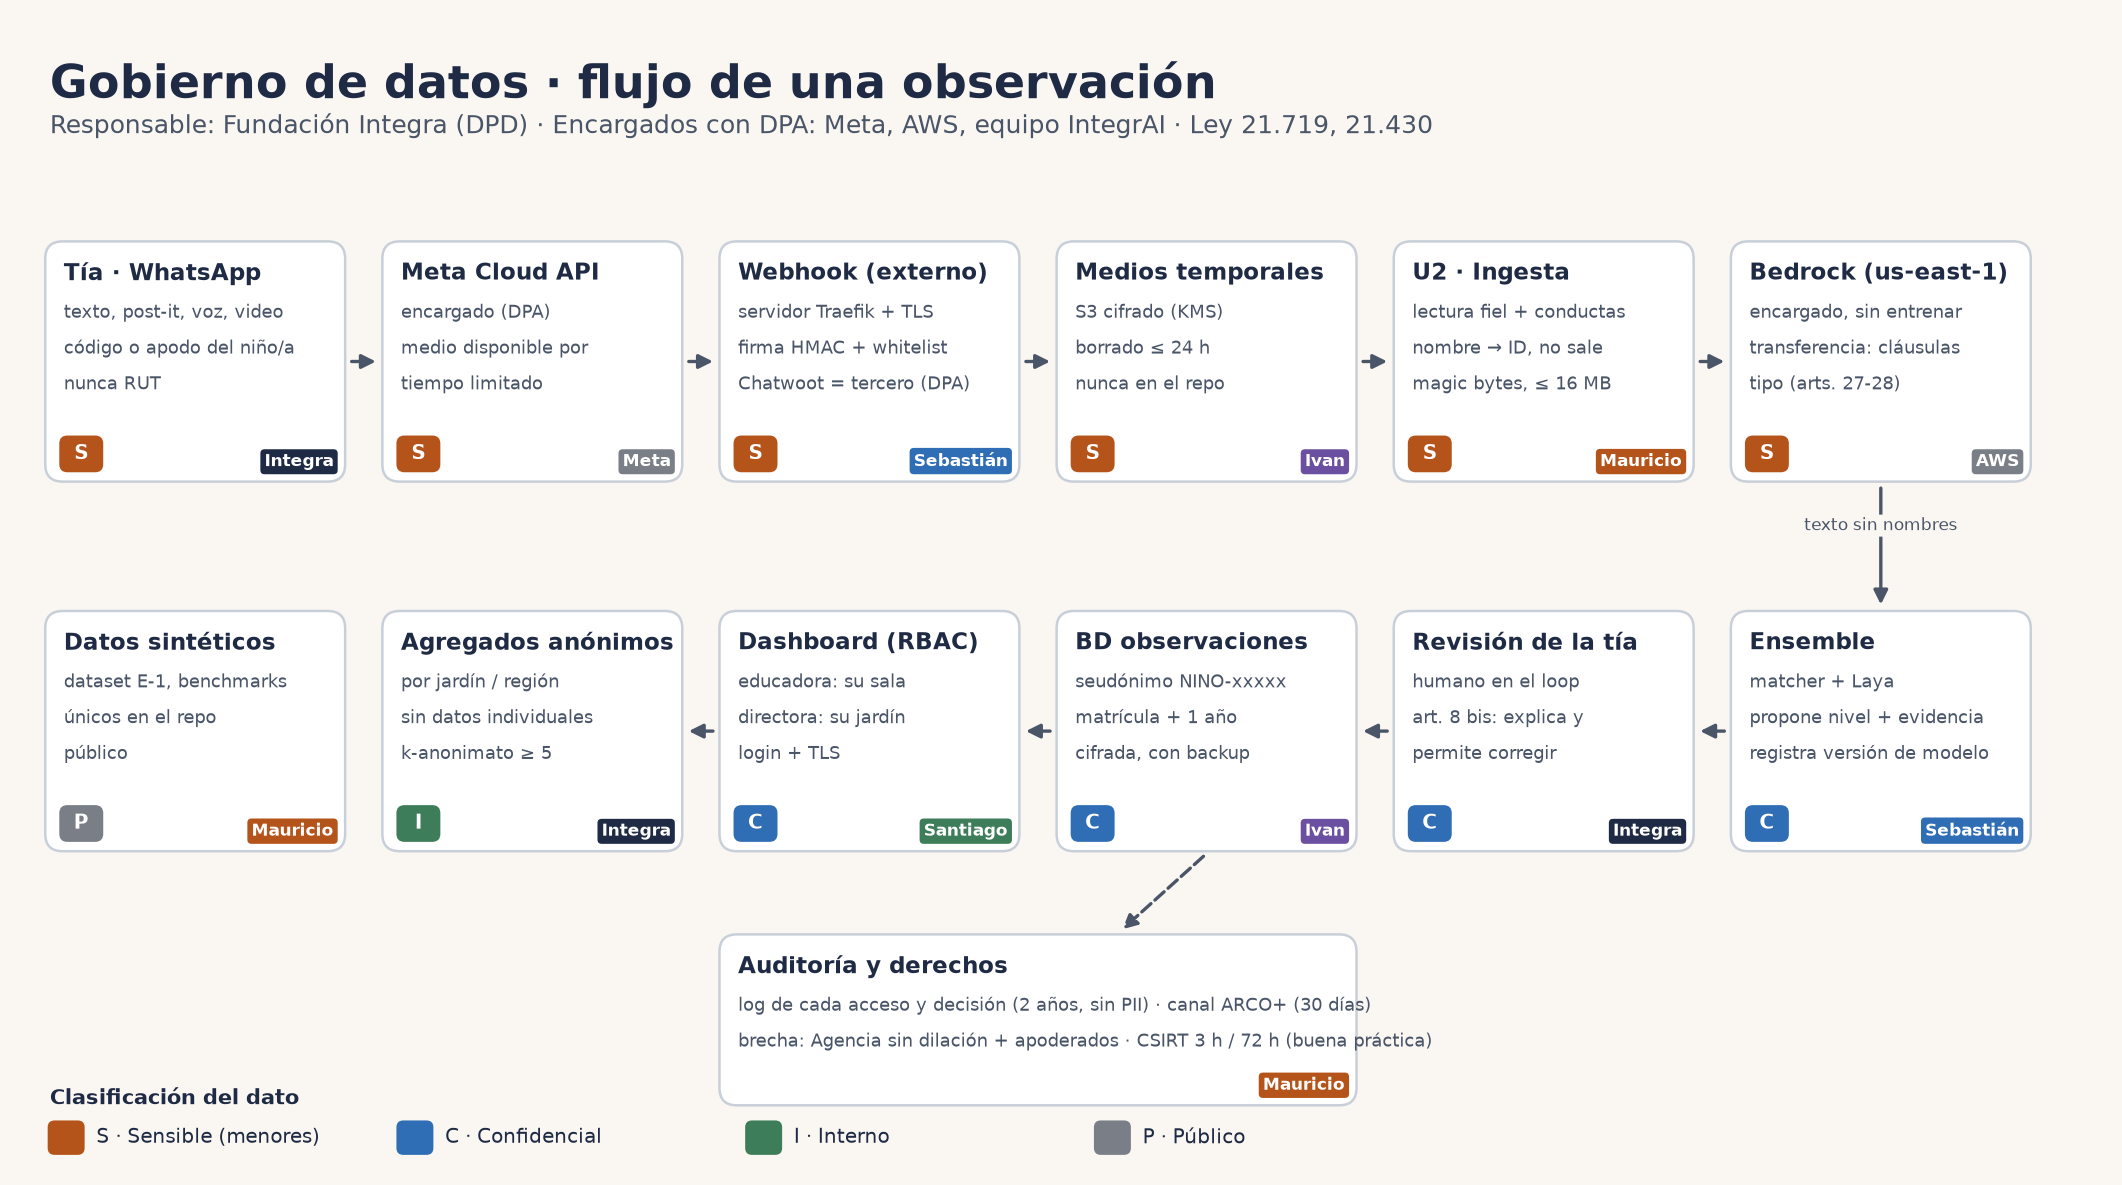
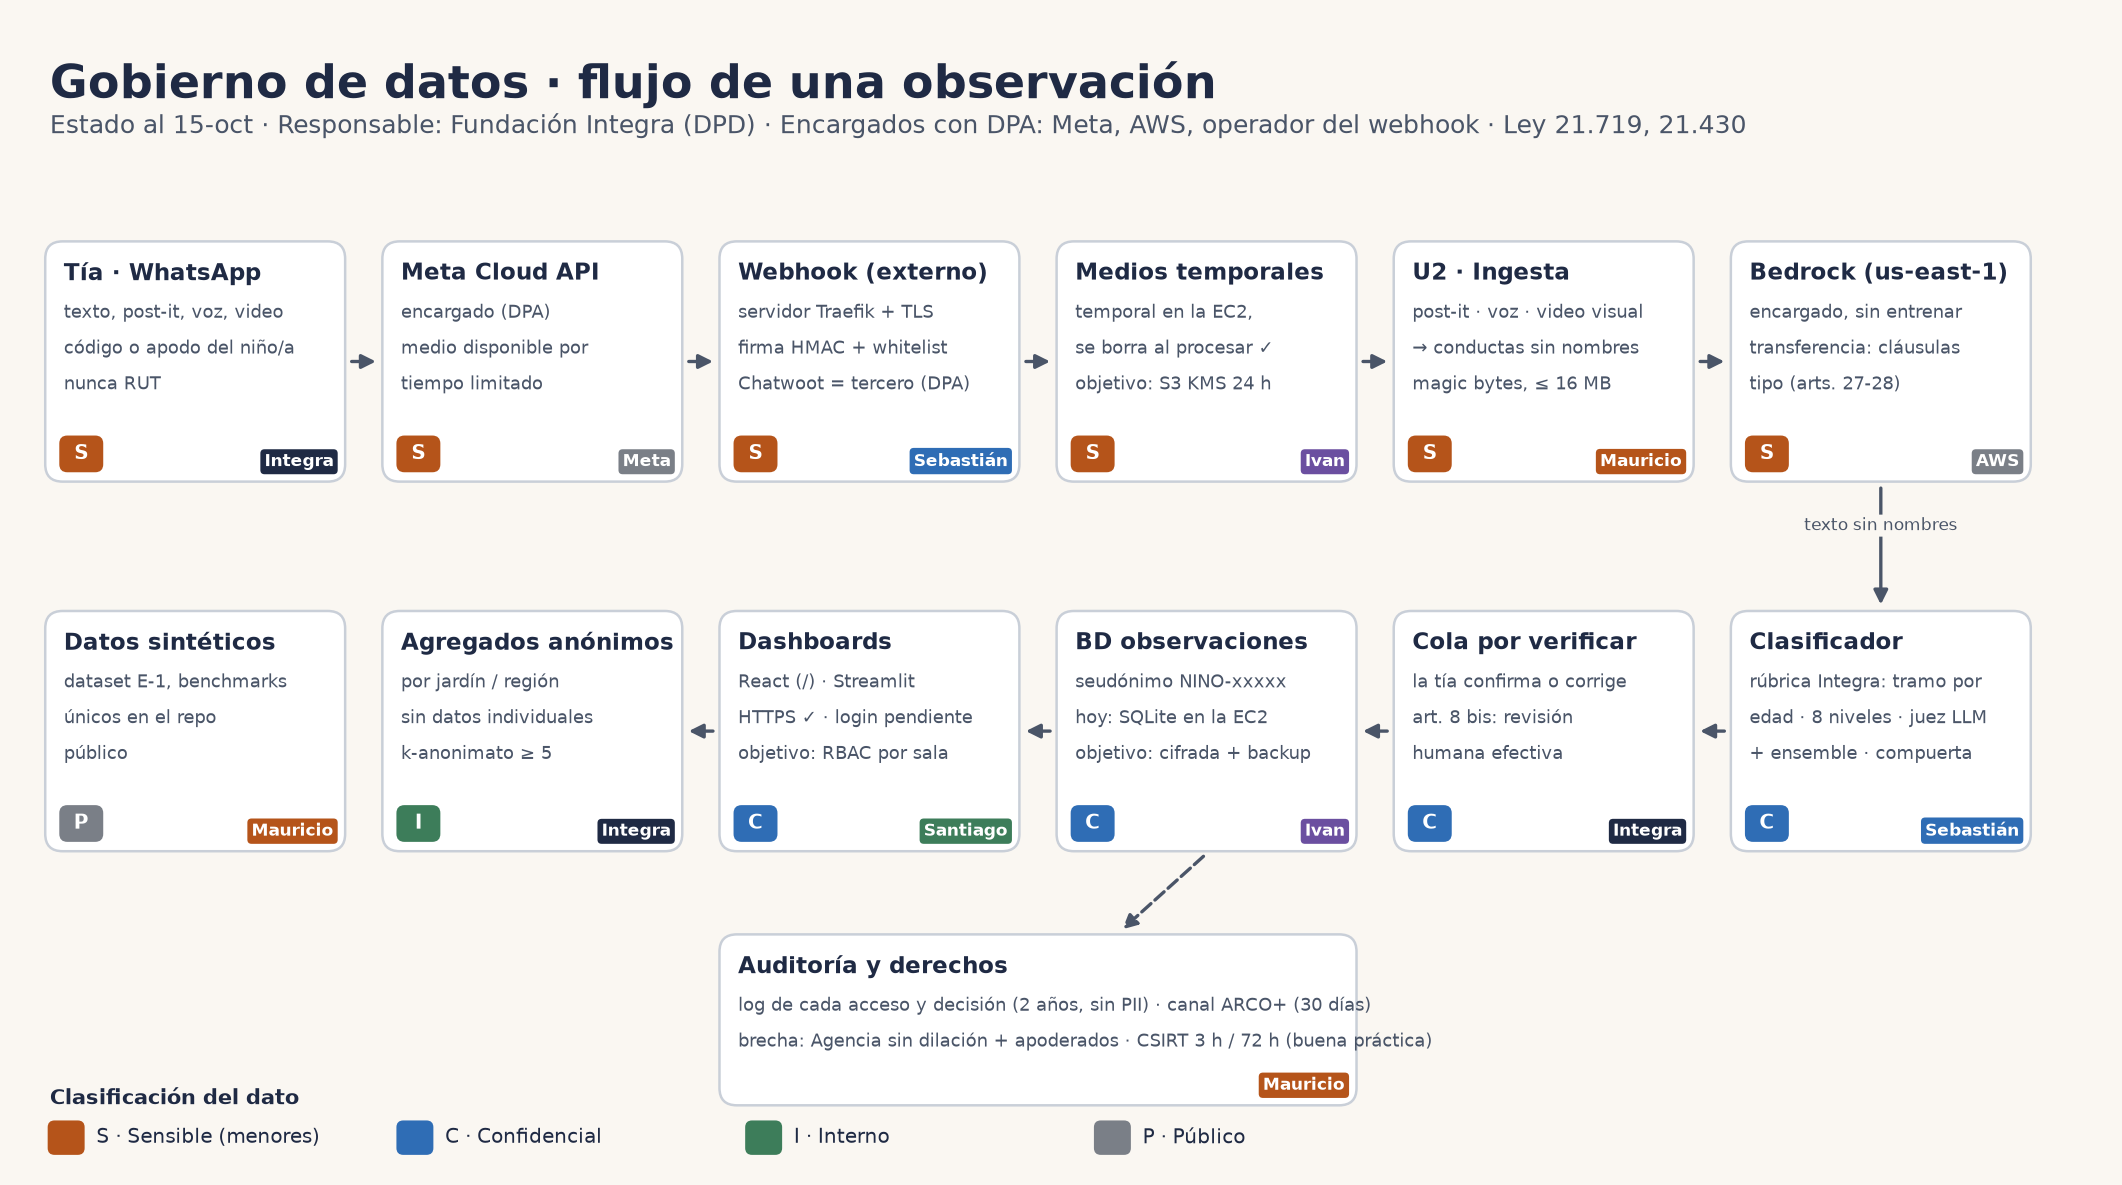
docs(infra): diagramas de flujo de datos e infraestructura al 15-oct + estado auditado
- docs/img/infra_ti.png: panel HOY con lo auditado (CloudFront y S3 frontend ✓,
  rúbrica y código seguro desplegados ✓, API sin token, 80/8000 abiertos,
  servicios root, EBS sin cifrar, rol IAM del evento, GitHub CI ✓ / Pages pendiente)
- docs/img/infra_datos.png: clasificador con la rúbrica, cola por verificar,
  dashboards reales, medios temporales en la EC2
- README con ambos diagramas; PLAN §2.2, SEGURIDAD §3 e INFRA §2 al día
- desplegar_frontend.py: build con --base=/ (vite.config usa /IntegrAI/ para
  Pages desde #22); frontend de main re-desplegado en CloudFront

diff --git a/tools/diagramas.py b/tools/diagramas.py
@@ -63,23 +63,23 @@ def leyenda_clases(ax, x, y):
 
 def infra_datos():
     fig, ax = lienzo("Gobierno de datos · flujo de una observación",
-                     "Responsable: Fundación Integra (DPD) · Encargados con DPA: Meta, AWS, equipo IntegrAI · Ley 21.719, 21.430")
+                     "Estado al 15-oct · Responsable: Fundación Integra (DPD) · Encargados con DPA: Meta, AWS, operador del webhook · Ley 21.719, 21.430")
     W, H = 25, 20
     fila1 = [(3, "Tía · WhatsApp", ["texto, post-it, voz, video", "código o apodo del niño/a", "nunca RUT"], "S", "Integra"),
              (32, "Meta Cloud API", ["encargado (DPA)", "medio disponible por", "tiempo limitado"], "S", "Meta"),
              (61, "Webhook (externo)", ["servidor Traefik + TLS", "firma HMAC + whitelist", "Chatwoot = tercero (DPA)"], "S", "Sebastián"),
-             (90, "Medios temporales", ["S3 cifrado (KMS)", "borrado ≤ 24 h", "nunca en el repo"], "S", "Ivan"),
-             (119, "U2 · Ingesta", ["lectura fiel + conductas", "nombre → ID, no sale", "magic bytes, ≤ 16 MB"], "S", "Mauricio"),
+             (90, "Medios temporales", ["temporal en la EC2,", "se borra al procesar ✓", "objetivo: S3 KMS 24 h"], "S", "Ivan"),
+             (119, "U2 · Ingesta", ["post-it · voz · video visual", "→ conductas sin nombres", "magic bytes, ≤ 16 MB"], "S", "Mauricio"),
              (148, "Bedrock (us-east-1)", ["encargado, sin entrenar", "transferencia: cláusulas", "tipo (arts. 27-28)"], "S", "AWS")]
     y1 = 60
     for x, t, l, c, d in fila1:
         caja(ax, x, y1, W, H, t, l, c, d)
     for i in range(len(fila1) - 1):
         flecha(ax, (fila1[i][0] + W + 0.6, y1 + H / 2), (fila1[i + 1][0] - 0.6, y1 + H / 2))
-    fila2 = [(148, "Ensemble", ["matcher + Laya", "propone nivel + evidencia", "registra versión de modelo"], "C", "Sebastián"),
-             (119, "Revisión de la tía", ["humano en el loop", "art. 8 bis: explica y", "permite corregir"], "C", "Integra"),
-             (90, "BD observaciones", ["seudónimo NINO-xxxxx", "matrícula + 1 año", "cifrada, con backup"], "C", "Ivan"),
-             (61, "Dashboard (RBAC)", ["educadora: su sala", "directora: su jardín", "login + TLS"], "C", "Santiago"),
+    fila2 = [(148, "Clasificador", ["rúbrica Integra: tramo por", "edad · 8 niveles · juez LLM", "+ ensemble · compuerta"], "C", "Sebastián"),
+             (119, "Cola por verificar", ["la tía confirma o corrige", "art. 8 bis: revisión", "humana efectiva"], "C", "Integra"),
+             (90, "BD observaciones", ["seudónimo NINO-xxxxx", "hoy: SQLite en la EC2", "objetivo: cifrada + backup"], "C", "Ivan"),
+             (61, "Dashboards", ["React (/) · Streamlit", "HTTPS ✓ · login pendiente", "objetivo: RBAC por sala"], "C", "Santiago"),
              (32, "Agregados anónimos", ["por jardín / región", "sin datos individuales", "k-anonimato ≥ 5"], "I", "Integra"),
              (3, "Datos sintéticos", ["dataset E-1, benchmarks", "únicos en el repo", "público"], "P", "Mauricio")]
     y2 = 28
@@ -98,20 +98,24 @@ def infra_datos():
 def infra_ti():
     fig, ax = lienzo("Infraestructura TI · hoy vs. objetivo",
                      "Etiqueta = responsable · borde naranjo = riesgo abierto · ✓ = ya aplicado (15-oct) · cuenta AWS del evento, us-east-1")
-    # --- HOY (auditado por SSM el 15-oct) ---
+    # --- HOY (auditado el 15-oct por SSM y la API de AWS) ---
     ax.text(3, 85, "HOY", fontsize=15, fontweight="bold", color="#B5541A")
-    caja(ax, 3, 66, 22, 14, "Internet", ["llega directo a :80 y :8000", "CloudFront TLS ✓ creado"], alerta=True)
-    caja(ax, 3, 46, 22, 14, "Webhook externo", ["Traefik TLS + Chatwoot", "→ EC2 por HTTP plano"], alerta=True, dueno="Sebastián")
-    caja(ax, 33, 46, 30, 34, "EC2 integra-server", ["IP pública · :80 y :8000 abiertos", "IMDSv2 ✓ · 443 cerrado ✓",
-                                                    "código seguro en main ✓", "falta activar token en la API",
-                                                    "servicios corren como root", "EBS sin cifrar (cuenta ✓)",
-                                                    "SQLite + Laya + Whisper"], alerta=True, dueno="Sebastián")
-    caja(ax, 33, 28, 30, 13, "Bedrock", ["Sonnet 5 · Nova · Pegasus", "sin logging de invocación ✓"], dueno="AWS")
-    caja(ax, 3, 25, 22, 16, "Repo público", ["datos sintéticos", "IP e IDs redactados ✓"], clase="P", dueno="Mauricio")
-    flecha(ax, (25.6, 73), (32.4, 70), "HTTP", color="#B5541A")
-    flecha(ax, (25.6, 53), (32.4, 53), "HTTP", color="#B5541A")
-    ax.text(14, 62.6, "Meta → HTTPS", fontsize=8, color=GRIS, ha="center")
-    flecha(ax, (48, 45.4), (48, 41.6))
+    caja(ax, 3, 63, 24, 17, "CloudFront ✓", ["HTTPS + HSTS ✓", "/ → S3 · resto → EC2", "sin WAF ni login aún"], alerta=True, dueno="Mauricio")
+    caja(ax, 3, 45, 24, 14, "S3 frontend ✓", ["React en la raíz", "privado + OAC ✓"], clase="P", dueno="Mauricio")
+    caja(ax, 3, 25, 24, 15, "Webhook externo", ["Traefik TLS + Chatwoot", "→ EC2 por HTTP plano"], alerta=True, dueno="Sebastián")
+    caja(ax, 33, 44, 33, 36, "EC2 integra-server", [":80 y :8000 abiertos a internet", "IMDSv2 ✓ · 443 cerrado ✓",
+                                                    "código seguro + rúbrica ✓", "API sin token (falta el corte)",
+                                                    "servicios como root", "EBS sin cifrar · rol IAM del evento",
+                                                    "Streamlit /streamlit · API · SQLite"], alerta=True, dueno="Sebastián")
+    caja(ax, 33, 27, 33, 13, "Bedrock", ["Sonnet 5 · Nova · Pegasus · Titan", "sin logging de invocación ✓"], dueno="AWS")
+    caja(ax, 3, 5, 31, 17, "GitHub", ["repo público · IDs redactados ✓", "CI: Gitleaks + tests + pip-audit ✓",
+                                      "Pages: falta activarlo"], clase="P", dueno="Mauricio")
+    caja(ax, 38, 5, 28, 17, "Secrets Manager", ["integrai/api-token ✓", "token de Meta: pendiente",
+                                                "EBS cifrado por defecto ✓"], dueno="Ivan")
+    flecha(ax, (27.6, 72), (32.4, 72))
+    flecha(ax, (15, 62.4), (15, 59.6))
+    flecha(ax, (27.6, 33), (32.4, 46), "HTTP", color="#B5541A")
+    flecha(ax, (49, 43.4), (49, 40.6))
     ax.plot([72, 72], [5, 88], color=BORDE, lw=1.5, ls="--")
     # --- OBJETIVO ---
     ax.text(78, 85, "OBJETIVO", fontsize=15, fontweight="bold", color="#3D7D5A")

diff --git a/tools/desplegar_frontend.py b/tools/desplegar_frontend.py
@@ -134,7 +134,8 @@ def configurar() -> None:
 def subir(build: bool = True) -> None:
     fe = RAIZ / "frontend"
     if build:
-        subprocess.run("npm ci --no-audit --no-fund && npm run build", cwd=fe, shell=True, check=True)
+        # vite.config.ts usa base '/IntegrAI/' para GitHub Pages (PR #22); en CloudFront la app vive en la raíz
+        subprocess.run("npm ci --no-audit --no-fund && npm run build -- --base=/", cwd=fe, shell=True, check=True)
     dist = fe / "dist"
     archivos = [dist / "index.html"] + sorted((dist / "assets").rglob("*")) + [dist / c for c in CSV_USADOS]
     for f in archivos:

diff --git a/docs/PLAN.md b/docs/PLAN.md
@@ -59,16 +59,18 @@ La arquitectura real cambió respecto del plan del 14-oct (Lambda/SQS/DynamoDB n
 |---|---|---|
 | Webhook WhatsApp oficial + resolver + cola | ✅ | ✅ |
 | U2 multimodal, video visual, conductas | ✅ | ⚠ Parcial: depende del último despliegue |
-| **Rúbrica de Integra** (tramos 0–6 años, juez) | ✅ | ❌ **No instalada**: los niños de 3–5 años se clasifican con la escala vieja (0–36 m), que los deja altos (ver #17) |
-| Token de la API, Swagger apagado | ✅ | ❌ Sin activar (corte coordinado) |
-| CloudFront HTTPS | ✅ | ✅ Activo |
+| **Rúbrica de Integra** (tramos 0–6 años, juez) | ✅ | ✅ Instalada en `privado/` (verificado el 15-oct) |
+| Swagger apagado | ✅ | ✅ `/docs` → 404 |
+| Token de la API | ✅ | ❌ Sin activar: `/clasificar` responde sin token (corte coordinado) |
+| CloudFront HTTPS | ✅ | ✅ Activo: `/` frontend React (S3 privado), `/streamlit/` Streamlit, API |
+| GitHub Pages del frontend (PR #22) | ✅ | ❌ El workflow falla: hay que activar Pages en *Settings → Pages → GitHub Actions* (dueño del repo) |
 | Puertos 80/8000 solo vía CloudFront, servicios sin root, rol IAM mínimo, WAF, Basic auth | ✅ (scripts) | ❌ Sin ejecutar |
 
 ### 2.3 Pendientes hasta el cierre (16-oct, 10:15), en orden
 
 | # | Tarea | Responsable | Listo cuando |
 |---|---|---|---|
-| 1 | **Instalar la rúbrica en la EC2** (`tools/importar_rubrica.py <docx>` → `privado/`) y desplegar `main` | Sebastián + Mauricio | `MarcoRubrica()` carga en el servidor |
+| 1 | ~~Instalar la rúbrica en la EC2~~ ✅ hecho (15-oct) | Sebastián + Mauricio | `MarcoRubrica()` carga en el servidor |
 | 2 | En `webhook_ec2.py`: tramo con `tramo_por_edad`, **`JuezRubrica` como voto principal**, respuesta "Sala Cuna · nivel 4 Afianzando (propuesta)" | Sebastián | Un mensaje de un niño de 4 años responde con un nivel de Transición o Medio |
 | 3 | **Corte de seguridad coordinado** (`docs/SEGURIDAD.md` §3.1): token de la API, webhook → URL HTTPS, puertos solo vía CloudFront | Sebastián + Mauricio | API sin token → 401; WhatsApp sigue respondiendo |
 | 4 | Rol IAM mínimo (plantilla **o** `iam_aws.py`), servicios sin root, WAF y Basic auth del dashboard | Ivan | `tools/seguridad_aws.py auditar` y `tools/cloudfront_aws.py auditar` en OK |

diff --git a/docs/SEGURIDAD.md b/docs/SEGURIDAD.md
@@ -63,7 +63,7 @@ Actualizado el 15-oct-2026. Se ejecutó primero todo lo que **no interrumpe la d
 
 | # | Medida | Estado | Cómo |
 |---|---|---|---|
-| 1 | Código seguro (firma fail-closed, whitelist, token, U2, video visual) | ✅ En `main` (PR #6) + video/Pegasus en el PR de esta rama | — |
+| 1 | Código seguro (firma fail-closed, whitelist, token, U2, video visual) | ✅ En `main` y **desplegado** (verificado 15-oct: `/docs` → 404, rúbrica instalada) | — |
 | 2 | IP, ID de instancia y nombre de la llave fuera del repo | ✅ | PR #6 |
 | 3 | IMDSv2 obligatorio | ✅ (ya estaba) | — |
 | 4 | Puerto 443 cerrado (no escuchaba nada) | ✅ Aplicado | Security group |
@@ -74,6 +74,11 @@ Actualizado el 15-oct-2026. Se ejecutó primero todo lo que **no interrumpe la d
 | 9 | Webhook → CloudFront (`https`) + `WA_APP_SECRET` + `WA_WHITELIST` + token | ⏳ Sebastián | Variables del webhook |
 | 10 | Cerrar 80/8000 a internet (solo CloudFront) | ⏳ Después de 9 | `tools/seguridad_aws.py corte` (revertible con `revertir-corte`) |
 | 11 | Servicios sin root, cifrar el EBS actual | ⏳ Después de la demo | Requiere reiniciar o detener la instancia |
+| 12 | Frontend React en la web desde S3 **privado** (OAC), solo los archivos que usa | ✅ Aplicado (15-oct) | `tools/desplegar_frontend.py` |
+| 13 | Rol IAM mínimo propio (hoy la EC2 usa el rol del escritorio Kiro del evento) | ⏳ Ivan | `infra/integra-server.yaml` o `tools/iam_aws.py` (corregidos en PR #14) |
+| 14 | WAF y Basic auth en CloudFront | ⏳ Ivan | `tools/cloudfront_aws.py waf` / `auth-basica` |
+
+**Auditoría del 15-oct (tarde):** IMDSv2 ✓ · 443 cerrado ✓ · EBS por defecto cifrado ✓ · CloudFront ✓ · token en Secrets Manager ✓ · S3 frontend privado ✓ · **pendientes:** 80/8000 abiertos a internet, API sin token, servicios como root, EBS de la instancia sin cifrar, rol IAM del evento, sin WAF, sin log groups ni alarmas, sin stack de CloudFormation desplegado.
 
 ### 3.1 Corte coordinado (unos 10 minutos, con Sebastián conectado)
 

diff --git a/docs/INFRA.md b/docs/INFRA.md
@@ -12,18 +12,23 @@
 
 La demo **no** crea infraestructura serverless nueva: reutiliza lo que existe. El camino serverless queda documentado como plan (§6) para que Integra lo despliegue sin reescribir la lógica.
 
-## 2. Componentes y estado
+## 2. Componentes y estado (auditado el 15-oct, tarde)
+
+![Infraestructura TI: hoy vs. objetivo](img/infra_ti.png)
 
 | Componente | Hoy | IaC |
 |---|---|---|
 | EC2 `integra-server` | En ejecución (`/opt/integra`) | No se recrea; se endurece (§4) |
 | Security group | 80/8000 abiertos a `0.0.0.0/0`; 22/8501 a 1 IP | `infra/integra-server.yaml` (80/8000 solo desde CloudFront; 22/8501 sin ingreso) |
 | Rol IAM de la instancia | Rol del escritorio Kiro (amplio) | `infra/integra-server.yaml` (mínimo privilegio) |
-| CloudFront + WAF | Creado | `tools/cloudfront_aws.py` (`crear`, `waf`, `auth-basica`) |
+| CloudFront | ✅ Creado: `/` frontend React, `/streamlit*` Streamlit, API → :8000 · **sin WAF** | `tools/cloudfront_aws.py` (`crear`, `waf`, `auth-basica`) |
 | Secretos (Meta + token API) | Parcial en Secrets Manager | `tools/secrets_aws.py`, `tools/desplegar_seguridad_ec2.sh` |
 | Cifrado EBS | Cuenta con cifrado por defecto; volumen actual sin cifrar | `tools/ebs_aws.py` (plan; requiere detener la instancia) |
 | Logs y alarmas | ❌ Sin configurar | `infra/integra-server.yaml` + `tools/cloudwatch_aws.py` |
 | Respaldos EBS | ❌ Sin configurar | `infra/integra-server.yaml` + `tools/backup_aws.py` |
+| Frontend (S3) | ✅ Bucket privado `integrai-frontend-<cuenta>` (BPA, cifrado, solo CloudFront vía OAC) | `tools/desplegar_frontend.py` |
+| GitHub Pages | ❌ Workflow `pages.yml` falla: Pages no está activado en el repo | Activar en *Settings → Pages → GitHub Actions* |
+| Stack CloudFormation | ❌ No desplegado | `infra/integra-server.yaml` (corregido en PR #14) |
 
 ## 3. Despliegue de la plantilla (por otra persona)
 

diff --git a/README.md b/README.md
@@ -36,7 +36,13 @@ Una tía de jardín envía por **WhatsApp** una observación de un niño/a: **te
 
 ## Arquitectura (lo que corre hoy)
 
+**Infraestructura TI, hoy vs. objetivo** (auditada el 15-oct; se regenera con `python tools/diagramas.py`):
+
 ![Infraestructura TI](docs/img/infra_ti.png)
+
+**Flujo de una observación y gobierno de datos** (clasificación S/C/I/P de cada dato, responsable y retención; ver [`docs/GOBIERNO_DATOS.md`](docs/GOBIERNO_DATOS.md)):
+
+![Flujo de datos](docs/img/infra_datos.png)
 
 ```
 Tía (WhatsApp) ─► Meta Cloud API ─► webhook/ (firma HMAC + whitelist) ─► EC2 integra-server (webhook_ec2.py, FastAPI)
